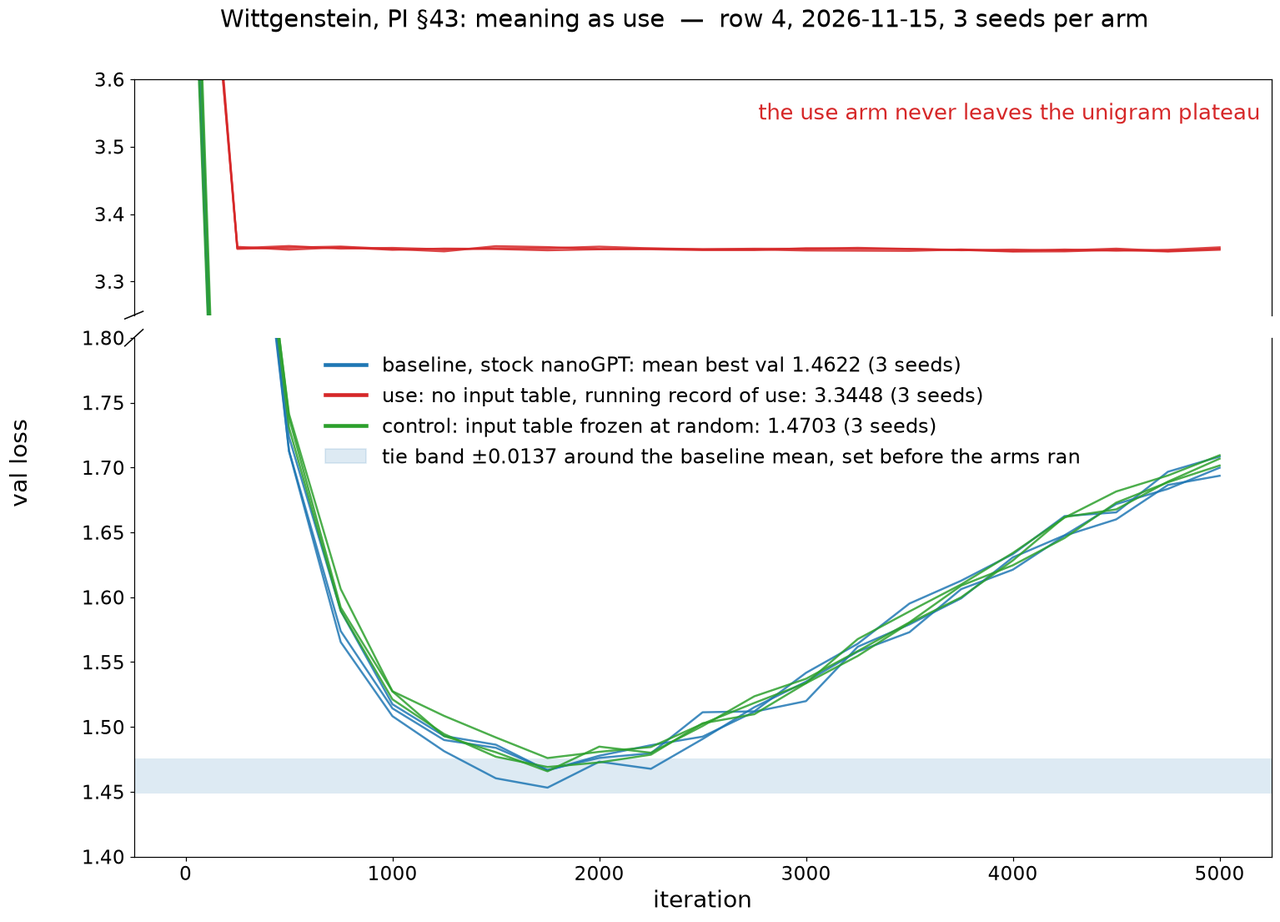
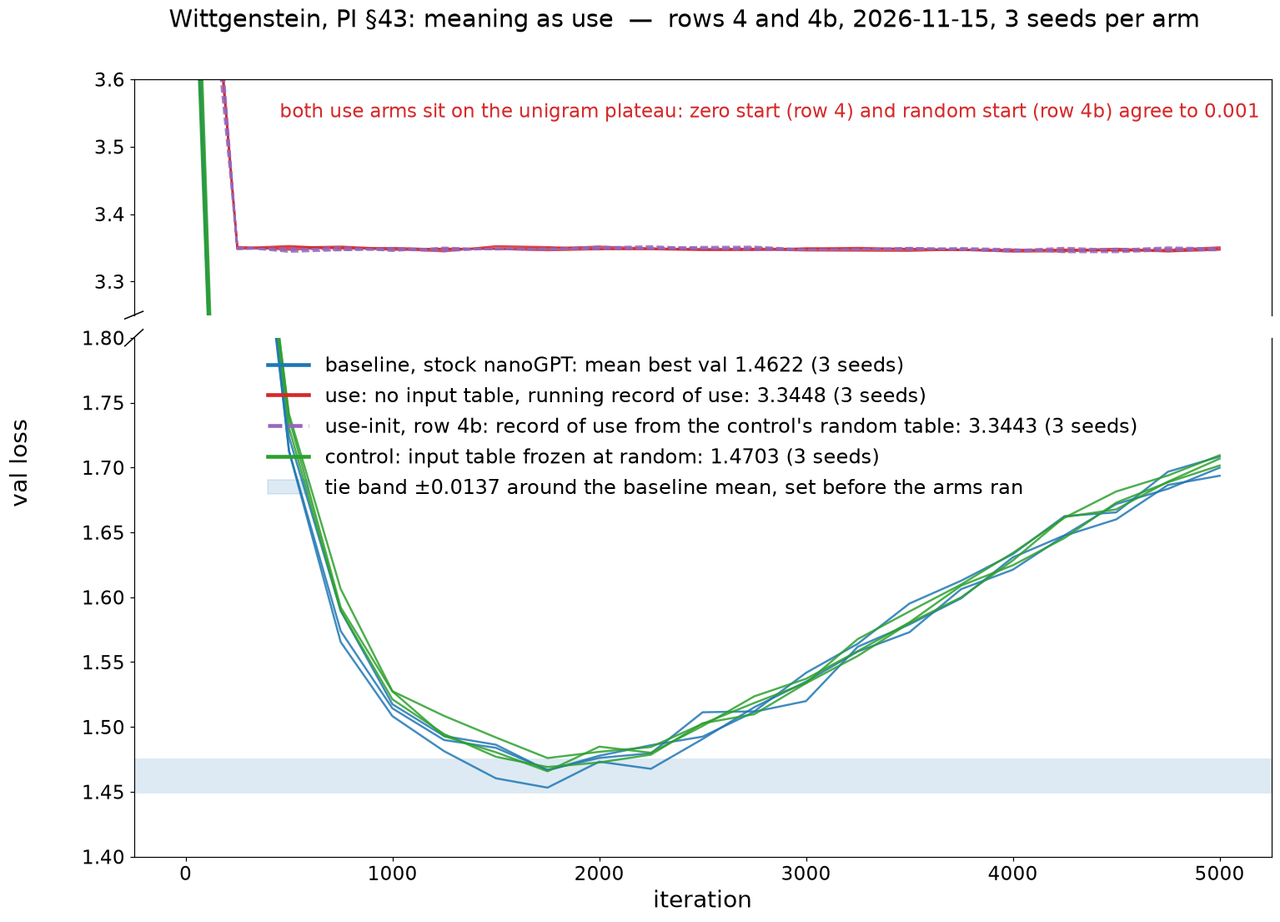
viewpoint_to_architecture: row 4b scored (use-init 3.3443, loss; the random start collapses too), row 4c written before its run, figure with the 4b arm

diff --git a/viewpoint_to_architecture/plot_wittgenstein.py b/viewpoint_to_architecture/plot_wittgenstein.py
@@ -3,34 +3,36 @@ import matplotlib; matplotlib.use("Agg")
 import matplotlib.pyplot as plt
 V="./"
 base=json.load(open(V+"baseline.json")); s7=json.load(open(V+"baseline_s7.json"))
-use=json.load(open(V+"wittgenstein_use.json")); fro=json.load(open(V+"wittgenstein_frozen.json"))
+use=json.load(open(V+"wittgenstein_use.json")); fro=json.load(open(V+"wittgenstein_frozen.json")); ui=json.load(open(V+"wittgenstein_use_init.json"))
 def curves(d):
     c=d["curves"]
     if isinstance(c,dict): return {k:[(r[0],r[2]) for r in v] for k,v in c.items()}
     return {"0":[(r[0],r[2]) for r in c]}
-B={**curves(base),**{"7":curves(s7)[list(curves(s7))[0]]}}; U=curves(use); F=curves(fro)
-bm,um,fm=1.4622,3.3448,1.4703; band=0.0137
+B={**curves(base),**{"7":curves(s7)[list(curves(s7))[0]]}}; U=curves(use); F=curves(fro); UI=curves(ui)
+bm,um,fm,uim=1.4622,3.3448,1.4703,3.3443; band=0.0137
 fig,(ax1,ax2)=plt.subplots(2,1,figsize=(16,11),dpi=110,sharex=True,gridspec_kw=dict(height_ratios=[1,2.2],hspace=0.06))
-cols={"base":"#1f77b4","use":"#d62728","fro":"#2ca02c"}
+cols={"base":"#1f77b4","use":"#d62728","fro":"#2ca02c","ui":"#9467bd"}
 for ax in (ax1,ax2):
     for k,v in B.items(): ax.plot(*zip(*v),color=cols["base"],lw=1.6,alpha=.85)
     for k,v in F.items(): ax.plot(*zip(*v),color=cols["fro"],lw=1.6,alpha=.85)
     for k,v in U.items(): ax.plot(*zip(*v),color=cols["use"],lw=1.6,alpha=.85)
+    for k,v in UI.items(): ax.plot(*zip(*v),color=cols["ui"],lw=1.6,alpha=.85,ls="--")
 ax1.set_ylim(3.25,3.60); ax2.set_ylim(1.40,1.80)
 ax2.axhspan(bm-band,bm+band,color=cols["base"],alpha=.15,lw=0)
 ax1.spines["bottom"].set_visible(False); ax2.spines["top"].set_visible(False); ax1.tick_params(bottom=False)
 d=.008
 for ax,y in ((ax1,0),(ax2,1)):
     ax.plot((-d,+d),(y-d*2,y+d*2),transform=ax.transAxes,color="k",clip_on=False,lw=1)
-ax1.text(0.99,0.9,"the use arm never leaves the unigram plateau",transform=ax1.transAxes,ha="right",va="top",fontsize=17,color=cols["use"])
+ax1.text(0.99,0.9,"both use arms sit on the unigram plateau: zero start (row 4) and random start (row 4b) agree to 0.001",transform=ax1.transAxes,ha="right",va="top",fontsize=15,color=cols["use"])
 from matplotlib.lines import Line2D
 from matplotlib.patches import Patch
 h=[Line2D([],[],color=cols["base"],lw=3,label=f"baseline, stock nanoGPT: mean best val {bm:.4f} (3 seeds)"),
    Line2D([],[],color=cols["use"],lw=3,label=f"use: no input table, running record of use: {um:.4f} (3 seeds)"),
+   Line2D([],[],color=cols["ui"],lw=3,ls="--",label=f"use-init, row 4b: record of use from the control's random table: {uim:.4f} (3 seeds)"),
    Line2D([],[],color=cols["fro"],lw=3,label=f"control: input table frozen at random: {fm:.4f} (3 seeds)"),
    Patch(color=cols["base"],alpha=.15,label=f"tie band ±{band} around the baseline mean, set before the arms ran")]
 ax2.legend(handles=h,loc="upper center",fontsize=16,frameon=False)
 ax2.set_xlabel("iteration",fontsize=18); fig.text(0.04,0.5,"val loss",va="center",rotation="vertical",fontsize=18)
 for ax in (ax1,ax2): ax.tick_params(labelsize=15)
-fig.suptitle("Wittgenstein, PI §43: meaning as use  —  row 4, 2026-11-15, 3 seeds per arm",fontsize=19,y=0.95)
+fig.suptitle("Wittgenstein, PI §43: meaning as use  —  rows 4 and 4b, 2026-11-15, 3 seeds per arm",fontsize=19,y=0.95)
 out=V+"wittgenstein_val_loss.png"; fig.savefig(out,bbox_inches="tight"); print(out)

diff --git a/viewpoint_to_architecture/wittgenstein_check_init_4b.py b/viewpoint_to_architecture/wittgenstein_check_init_4b.py
@@ -1,0 +1,13 @@
+import sys, torch
+sys.path.insert(0, r"D:\mycelium\vta\nanoGPT_wittgenstein")
+sys.argv = ['x']
+from model import GPT, GPTConfig
+# train.py: torch.manual_seed(seed + seed_offset), seed_offset = 0 (single process); model built from scratch afterwards
+for s in (1337, 42, 7):
+    torch.manual_seed(s)
+    m = GPT(GPTConfig(block_size=256, vocab_size=65, n_layer=6, n_head=6, n_embd=384, dropout=0.2, bias=False, embed_mode='use_init'))
+    ck = torch.load(rf"D:\mycelium\vta\nanoGPT_wittgenstein\out-witt-frozen-s{s}\ckpt.pt", map_location="cpu", weights_only=False)
+    sd = ck["model"]; k = [x for x in sd if x.endswith("transformer.wte.weight")][0]
+    d = (0.02 * m.U - sd[k]).abs().max().item()
+    tr = sum(p.numel() for p in m.parameters() if p.requires_grad)
+    print(f"seed {s} max_abs_diff {d:.3e} trainable {tr}")

diff --git a/viewpoint_to_architecture/LEDGER.md b/viewpoint_to_architecture/LEDGER.md
@@ -11,8 +11,9 @@ The judge for rows 1 to 3 is the one fixed on the page: best validation loss on 
 | 2 | 2026-11-15 | removed | No necessary connexion is ever perceived; every relation between impressions is learned from their constant conjunction. Hume, Treatise I.iii.6; Enquiry IV–VII. | No positional information is given: the learned position embedding is removed, and order is known only through what the causal mask imposes. | Removed the 98,304-parameter position embedding (0.9%, inside the 1% line, so no matching); nothing added. | p=0.55 within 0.01; p=0.35 worse by over 0.01; p=0.10 better by over 0.01. | Mean best 1.5283: +0.062, worse on both seeds. The 0.35 arm. It peaked a thousand iterations later and was the only run that did not overfit by iteration 5000 (final 1.5795 against 1.7041). | Translation. A causal decoder recovers position from the mask on its own (Haviv et al. 2022), so the run reproduced a known result: slower, and worse at this scale. | Taking away a relation the model would have learned anyway costs by the judge and changes the shape of the curve; the slower overfitting is the one thing in the row the judge does not see. |
 | 3 | 2026-11-15 | recomputed | Thought has an operation that fires on surprise, and surprise is measured against the thinker's own expectation. Peirce, Collected Papers 5.189 and 5.171. | One head per layer attends by the model's own surprisal at each position, computed from a no-grad forward of the current weights before each step, instead of by a learned score. | Removed the learned query and key of one head per layer; added 64 MLP hidden units per layer so parameters match; added one forward pass per step (1.57× wall time), so a 6667-iteration baseline was run as the compute match. | Against the 5000-iteration baseline: p=0.20 better by over 0.01; p=0.35 within 0.01; p=0.45 worse by over 0.01. Against row 1: p=0.60 lower. Kill line: mean best 1.4766 or above on both seeds is a loss; under 1.4566 on both and 0.01 under the compute-matched baseline is a win. | Mean best 1.4600: −0.0066 against the 5000-iteration baseline (1.4667) and −0.0039 against the 6667-iteration one (1.4639). Both under 0.01: a tie, twice. The 0.35 arm; lower than row 1. Overfits more slowly (best at 2000, final 1.6517). Seed spread 0.0117, the size of the gap. | Open. No loss to assign. The first two rows gave or took a relation; this one replaced a learned score with a quantity the model computes about itself, and did not lose. Two seeds cannot separate it from the baseline. | A quantity the model computes about itself is the first translation that did not reproduce a known result. Also: the first two runs of this row did not learn at all, from a cached-autocast fault in the extra pass, found by two controls that stalled the same way. Only the fixed runs are scored. |
 | 4 | 2026-11-15, written before the run at 21:5xZ | constituted | The meaning of a word is its use in the language. Wittgenstein, Philosophical Investigations §43. | No free input embedding table. A token's input vector is 0.02 times a buffer row holding an exponential moving average (decay 0.9) of the final-layer state at the position just before each occurrence of that token in earlier training steps: a record of the model's own use of the token, under the current weights, with no gradient. The output head keeps its own free table. Control arm: the input table present but frozen at its random init. | Removed the free input table as an input (the 24,960-parameter table stays as the output head, so parameters are unchanged at 10,745,088; the stock tree tied the two). Added a 65×384 buffer, not a parameter, and one fixed scalar (0.02, the stock init scale). About 1.0× compute, so no compute-matched arm. | Three seeds per arm (1337, 42, 7) and a third baseline seed on the stock tree. Band = max(range of the three baseline seeds' best val, 0.002), computed from the baseline's third seed before any arm runs; number entered here from the hand's file: **band = 0.0137** (baseline best val by seed 1337 / 42 / 7: 1.4664 / 1.4669 / 1.4532; range 0.0137, above the 0.002 floor; entered 2026-11-15 22:0xZ from the hand's band file, written 22:03:18Z, before any arm log was opened; seed 7 sits 0.013 under the other two, so this band is seven times the 0.002 the first two seeds alone would have given). Variant vs baseline, three-seed means: p=0.60 worse by more than the band with every variant seed above the baseline mean; p=0.30 within the band; p=0.10 better by more than the band with every seed below. Control vs baseline: p=0.55 within the band, p=0.40 worse, p=0.05 better. Variant lower than control p=0.50. Kill line: variant mean at or above baseline mean + band with every seed above is a loss; at or below baseline mean − band with every seed below is a win; between is a tie. Attribution written before: variant and control lose alike, the translation's (taking the learned table off the input costs whatever replaces it); variant loses and control ties, the claim's as translated; variant beats control and loses to baseline, both written. | Run 2026-11-15 22:0x–22:33Z, one RTX 3090. Use arm best val by seed 1337 / 42 / 7: 3.3451 (iter 4000) / 3.3443 (4000) / 3.3450 (4750); mean **3.3448**, +1.8826 over the baseline's 1.4622, every seed above: **loss**, the 0.60 arm. Frozen control: 1.4760 / 1.4691 / 1.4658, all at iter 1750; mean **1.4703**, +0.0081, inside the 0.0137 band: **tie**, the 0.55 arm. Use lower than control: no (the 0.50 call wrong). Final val means at 5000: use 3.349, control 1.706, baseline 1.701. Wall 306–314 s per use run against 297.6 for the baseline (1.04×, inside the predicted 300–350). Trainable parameters 10,745,088 in both arms. Of nine predictions, five true and four false; the false ones all had the use arm learning something. | By the attribution written before the run: variant loses and control ties, so **the claim's, as translated**. But the mechanism, measured after the run from the three use checkpoints, puts the loss on one choice inside the translation. The record U starts at zero, so every token enters the network as the same vector; the layers' states then depend only on position (and dropout noise); and the record written from those states is the same row for every token. Measured: pairwise cosine between the 65 rows of U, mean 0.9999, min 0.9976; each row's deviation from the mean row is 0.6% of its norm; no zero rows; all three seeds alike. The model never receives token identity and sits at the position-only level (val 3.35) from iteration 1000 to 5000. A zero-initialised record is a symmetric fixed point of its own update, which is a fact about the init and not about §43. Row 4b breaks the symmetry and keeps everything else. | A record of use written from a state that carries no token identity carries none: use can only constitute meaning where something already tells the uses apart. In the text's own terms, the moves of a language game have to be distinguishable before their use can give them meaning; §43 presupposes the distinction it does not supply. For the ledger: a translation whose variant starts at an exact symmetry of its own update is to be checked for that before it runs. This row was predicted to lose at p=0.60 for the wrong reason (a record too noisy to serve as an embedding), and lost from a fixed point the prediction did not name; a right call with a wrong mechanism is scored as a right call here, and the mechanism is written beside it so the next row cannot repeat it. |
-| 4b | 2026-11-15, written before the run at 22:4xZ | constituted | The meaning of a word is its use in the language. Wittgenstein, Philosophical Investigations §43 (the same sentence as row 4; this row changes one choice in the translation, not the claim). | As row 4, with the fixed point removed: the buffer U is initialised so that 0.02·U equals, element for element, the random normal(0, 0.02) table the frozen control carries under the same seed (U₀ = that table / 0.02; the check before training is max abs difference under 1e-6 against the frozen checkpoint's table), then updated by the same no-gradient EMA (decay 0.9) of the final-layer state preceding each occurrence. At step 0 the two arms are the same network; from step 1 they differ only in whether the input table is rewritten from use or never. Control: the frozen arm already run in row 4, not re-run (1.4703, tie). | Removed and added as row 4; nothing further. Parameters 10,745,088 trainable in both arms. About 1.0× compute. | Three seeds (1337, 42, 7); band 0.0137, from the same three baseline runs, unchanged. Variant vs baseline, three-seed means: p=0.45 worse by more than the band with every seed above; p=0.45 within the band; p=0.10 better by more than the band with every seed below. Variant lower than the frozen control's 1.4703: p=0.50. Variant's U rows at the end: pairwise cosine mean under 0.5, p=0.80 (the record diverges by token once tokens differ). Kill line as row 4. Attribution written before: 4b loses and the control tied, the claim's as translated, now with the init excuse gone; 4b ties the baseline, the use record costs nothing against a frozen random table and buys nothing against a learned one, so the translation is inert at this scale and the claim is unscored by it; 4b beats the baseline by the band with every seed below, a win, the first. Whichever lands, row 4's loss is then split: the part the init owned is the gap between row 4 and 4b, and the rest is the claim's. | | | |
+| 4b | 2026-11-15, written before the run at 22:4xZ | constituted | The meaning of a word is its use in the language. Wittgenstein, Philosophical Investigations §43 (the same sentence as row 4; this row changes one choice in the translation, not the claim). | As row 4, with the fixed point removed: the buffer U is initialised so that 0.02·U equals, element for element, the random normal(0, 0.02) table the frozen control carries under the same seed (U₀ = that table / 0.02; the check before training is max abs difference under 1e-6 against the frozen checkpoint's table), then updated by the same no-gradient EMA (decay 0.9) of the final-layer state preceding each occurrence. At step 0 the two arms are the same network; from step 1 they differ only in whether the input table is rewritten from use or never. Control: the frozen arm already run in row 4, not re-run (1.4703, tie). | Removed and added as row 4; nothing further. Parameters 10,745,088 trainable in both arms. About 1.0× compute. | Three seeds (1337, 42, 7); band 0.0137, from the same three baseline runs, unchanged. Variant vs baseline, three-seed means: p=0.45 worse by more than the band with every seed above; p=0.45 within the band; p=0.10 better by more than the band with every seed below. Variant lower than the frozen control's 1.4703: p=0.50. Variant's U rows at the end: pairwise cosine mean under 0.5, p=0.80 (the record diverges by token once tokens differ). Kill line as row 4. Attribution written before: 4b loses and the control tied, the claim's as translated, now with the init excuse gone; 4b ties the baseline, the use record costs nothing against a frozen random table and buys nothing against a learned one, so the translation is inert at this scale and the claim is unscored by it; 4b beats the baseline by the band with every seed below, a win, the first. Whichever lands, row 4's loss is then split: the part the init owned is the gap between row 4 and 4b, and the rest is the claim's. | **Loss.** Equality lines first: 0.02·U₀ against the frozen checkpoints' table, max abs diff 0.000 for all three seeds, trainable count 10,745,088, so this is row 4b as written. Use-init arm 3.3443 (seed 1337), 3.3452 (42), 3.3433 (7), mean 3.3443, +1.8821 on the baseline, every seed above 1.4759: loss by the kill line, the 0.45 arm. Row 4's use arm was 3.3448; the two agree to 0.001. Control is row 4's frozen arm, 1.4703, tie. Wall 302–304 s. Cosine prediction wrong, the 0.80 arm: the 65 rows of U, near-orthogonal at step 0, end with pairwise cosine mean 0.9986–0.9999, deviation from the mean row 0.6–1.5% of its norm, no zero rows. | **The translation's.** The symmetry named in row 4 was one entry to the collapse, not its cause: a random start with the symmetry gone collapses the same way. The cause is a timescale. The record forgets at decay 0.9 per step, so the start is 0.9ⁿ gone, under one percent after 44 steps; at those steps every token's post-ln_f state is near the same vector, because the network has not yet learned to make its states depend on the token, and the record averages those states into one row for every token. The model then receives no token identity and never produces states that carry any; the loop closes. Row 4c, below, changes only the timescale. | A rule I write into this ledger: a wiring that writes a learned quantity from the model's own states is checked for the timescale of the write against the timescale over which those states become informative; a write faster than the learning overwrites the start with the model's own initial uniformity. The symmetry check of row 4 stands and was not enough: breaking the symmetry (p=0.80 that the rows would stay apart) changed nothing measurable. A mechanism inferred from one run is a hypothesis about the next; here it was wrong and the row that tested it cost 18 minutes. |
+| 4c | 2026-11-15, written before the run at 23:2xZ | constituted | The meaning of a word is its use in the language. Wittgenstein, Philosophical Investigations §43 (the same sentence as rows 4 and 4b; this row changes the timescale of the record, not the claim). | As row 4b, start included, with the record's decay 0.9 replaced by 0.999 per step: U[k] ← 0.999·U[k] + 0.001·(mean post-ln_f state preceding token k in the batch), so the start has half-life ~690 steps and the record averages ~1,000 steps of use, over the span in which the stock model's val loss falls from 4.3 to 1.8. Everything else as row 4b: 0.02·U as the input, wte frozen and unused, three seeds, the same training. | Removed from row 4b: the fast forgetting. Added: nothing. | Three seeds (1337, 42, 7); band 0.0137, unchanged. Variant vs baseline, three-seed means, kill line as row 4: loss if every seed above 1.4759, win if every seed below 1.4485, else tie. Prediction: loss p=0.65, tie p=0.30, win p=0.05. Lower than row 4b's 3.3443 by more than 0.5: p=0.80 (the start survives long enough for the states to carry token identity). Pairwise cosine mean of U's rows at the end under 0.9: p=0.60. Control is row 4's frozen arm. Attribution as row 4: variant loses and control ties, the claim's as translated; and if the timescale change moves the loss by more than 0.5, the row-4b mechanism paragraph is confirmed as the cause of that much. | | | |
 
 ## Standing
 
-Four claims run, eleven runs, no win. Three losses: Kant's and Hume's the translation's, in each the wiring was a relation the stock model learns unaided; Wittgenstein's the claim's by the rule written before the run, with the mechanism measured afterwards pointing at one choice inside the translation (a zero-initialised record of use is a fixed point of its own update, so the model never received token identity). One tie, Peirce, open. The pattern so far, which is a hypothesis and not a result: a claim that adds or removes a relation loses to the model that learns the relation; a claim that changes what a score is computed from has not lost; a claim that replaces a learned table with a record of use has lost once, for a reason the next row can remove. Row 4b is written above with its prediction, the same band and kill line, and runs next; its result column is empty until the hand's file exists.
+Four claims run, fourteen runs, no win. Four losses: Kant's and Hume's the translation's, in each the wiring was a relation the stock model learns unaided; Wittgenstein's twice, row 4 the claim's by the rule written before the run, row 4b the translation's, the mechanism measured: a record of use that forgets in ten steps is overwritten by the untrained network's own uniformity before the network can make use distinct, and the start, zero or random, does not matter. One tie, Peirce, open. The pattern so far, which is a hypothesis and not a result: a claim that adds or removes a relation loses to the model that learns the relation; a claim that changes what a score is computed from has not lost; a claim that replaces a learned table with a record of use has lost twice, the second time for a reason the next row removes. Row 4c is written above with its prediction, the same band and kill line, and runs next; its result column is empty until the hand's file exists.

diff --git a/viewpoint_to_architecture/README.md b/viewpoint_to_architecture/README.md
@@ -84,6 +84,7 @@ Prediction written before the run: variant vs baseline p=0.60 worse by more than
 | baseline, stock nanoGPT | 1.4664 (1750) | 1.4669 (1750) | 1.4532 (1750) | 1.4622 | band ±0.0137 | 1.7006 |
 | use: no input table, record of use | 3.3451 (4000) | 3.3443 (4000) | 3.3450 (4750) | 3.3448 | +1.8826, loss | 3.349 |
 | control: input table frozen at random | 1.4760 (1750) | 1.4691 (1750) | 1.4658 (1750) | 1.4703 | +0.0081, tie | 1.7059 |
+| use-init (row 4b): record of use starting from the control's random table | 3.3443 (4000) | 3.3452 (1000) | 3.3433 (4250) | 3.3443 | +1.8821, loss | 3.348 |
 
 Result: the use arm lost, by the written line and by a margin no band is near; the frozen control tied the baseline. So by the attribution written before the run the loss is the claim's as translated.
 
@@ -93,12 +94,14 @@ What the checkpoints show, measured after the run: the record was initialised at
 
 Verdict: a record of use written from a state that carries no token identity carries none; use can constitute meaning only where something already tells the uses apart. Row 4b, written in the ledger before its run, keeps the wiring and breaks the symmetry: the record starts as the control's own random table and is then rewritten from use, so the two arms are the same network at step 0 and differ only in the update. Its prediction is 0.45 loss, 0.45 tie, 0.10 win. The control that frozen table tied the baseline, which already says this much: at this scale a learned input table is worth about 0.008 of val loss over a random one.
 
+Row 4b, run the same evening: the record started at the control's random table, element for element (checked before training: max abs difference 0.000 for all three seeds), so every token entered the network as a different vector at step 0. The loss did not move: 3.3443 against 3.3448, and at the end the 65 rows of the record are again one vector (pairwise cosine mean 0.999 in all three seeds). The prediction written before the run, that the rows would stay apart (p=0.80), was wrong. The cause is not the symmetry but the timescale: the record forgets at 0.9 per step, so the random start is gone within fifty steps, and at those steps an untrained network's final states are near the same vector for every token; the record averages them into one row for all tokens, and the loop of row 4 closes from a different start. Row 4c, written in the ledger before its run, changes only that timescale: decay 0.999, so the record averages about a thousand steps of use and the start survives into the span where the network learns.
+
 ---
 
 No claim has beaten the stock model at matched compute. Kant's given form cost 0.02 and the loss is the head's. Hume's absent form cost 0.06 at its best and learned slowest, but it was the only variant that did not overfit by iteration 5000. Peirce's measured score tied the baseline on both comparisons, 0.007 under at equal iterations and 0.004 under at equal compute, with a seed spread the size of the gap; it is the only variant so far that did not lose, and it overfit more slowly than the stock run. Wittgenstein's record of use lost by 1.88, the largest loss on the page, and the loss is traced to the record's zero init (a fixed point of its own update); its frozen-random control tied the baseline at +0.008. The mean-best figure is the mean of the two seeds' own best values; where the seeds peak at different iterations (Kant control, Hume) the minimum of the plotted mean curve sits up to 0.005 above it.
 
 ## Files and reproduction
 
-`baseline.json`, `kant_prevtoken.json`, `kant_control.json`, `hume_nopos.json`, `peirce_surprisal.json`, `baseline_6667.json`, `baseline_s7.json`, `wittgenstein_use.json`, `wittgenstein_frozen.json` hold the config, parameter count, GPU, torch version, and the training and validation loss every 250 iterations for each seed. `plot.py` draws `val_loss.png` and `val_loss.svg` from them. `LEDGER.md` is the running record, one row per try: the sentence tried and its place in the text, the wiring, what was removed or added, the prediction written before the run, the result, and whose the loss is, the claim's or the translation's; a row is written before its run. Hardware: one RTX 3090, torch 2.6.0+cu124, about 310 seconds per 5000-iteration run; the Peirce variant takes 497 seconds and the 6667-iteration baseline 395. The model edits are each under twenty lines of nanoGPT's model.py: for Kant, head 0 of each layer has its query and key removed and its attention matrix replaced by the shifted identity, with `mlp_hidden` set to 1600 for the widened variant and left stock for the control; for Hume, `wpe` is not created and the first block receives `drop(tok_emb)`; for Peirce, the Kant tree's head 0 takes its attention matrix from a surprisal vector computed by a no-grad eval-mode forward of the current weights before each step (the diff is in `peirce_model.diff`); for Wittgenstein, the free input table is replaced by a buffer rewritten from the final-layer state after each training step, or kept and frozen for the control (`wittgenstein_model.diff`, `wittgenstein_train.diff`; `wittgenstein_band.md` is the band as written before the arms ran; `plot_wittgenstein.py` draws `wittgenstein_val_loss.png`).
+`baseline.json`, `kant_prevtoken.json`, `kant_control.json`, `hume_nopos.json`, `peirce_surprisal.json`, `baseline_6667.json`, `baseline_s7.json`, `wittgenstein_use.json`, `wittgenstein_frozen.json`, `wittgenstein_use_init.json` hold the config, parameter count, GPU, torch version, and the training and validation loss every 250 iterations for each seed. `plot.py` draws `val_loss.png` and `val_loss.svg` from them. `LEDGER.md` is the running record, one row per try: the sentence tried and its place in the text, the wiring, what was removed or added, the prediction written before the run, the result, and whose the loss is, the claim's or the translation's; a row is written before its run. Hardware: one RTX 3090, torch 2.6.0+cu124, about 310 seconds per 5000-iteration run; the Peirce variant takes 497 seconds and the 6667-iteration baseline 395. The model edits are each under twenty lines of nanoGPT's model.py: for Kant, head 0 of each layer has its query and key removed and its attention matrix replaced by the shifted identity, with `mlp_hidden` set to 1600 for the widened variant and left stock for the control; for Hume, `wpe` is not created and the first block receives `drop(tok_emb)`; for Peirce, the Kant tree's head 0 takes its attention matrix from a surprisal vector computed by a no-grad eval-mode forward of the current weights before each step (the diff is in `peirce_model.diff`); for Wittgenstein, the free input table is replaced by a buffer rewritten from the final-layer state after each training step, or kept and frozen for the control (`wittgenstein_model.diff`, `wittgenstein_train.diff`; `wittgenstein_band.md` is the band as written before the arms ran; `plot_wittgenstein.py` draws `wittgenstein_val_loss.png`).
 
-Next run, written in the ledger as row 4b: Wittgenstein's record of use starting from the control's random table instead of zero, three seeds, the same band. A claim that beats the baseline at matched compute by more than the band with every seed below is the result this search is for; by 2027-01-14, if none has, the search ends and this page says so.
+Next run, written in the ledger as row 4c: Wittgenstein's record of use with the forgetting slowed from 0.9 to 0.999 per step, start included, three seeds, the same band. A claim that beats the baseline at matched compute by more than the band with every seed below is the result this search is for; by 2027-01-14, if none has, the search ends and this page says so.

diff --git a/README.md b/README.md
@@ -52,4 +52,4 @@ This is not a claim of a world record. The Einstein Arena board was read on 2026
 
 ## 4. Viewpoint to architecture
 
-A different kind of search: a thinker's claim about how a mind must be built, turned into one constraint on a small transformer and trained against the unmodified baseline at matched compute. The first four, Kant, Hume, Peirce and Wittgenstein, are in [`viewpoint_to_architecture/`](viewpoint_to_architecture/README.md). Kant, Hume and Wittgenstein lost; Peirce tied on both comparisons; the page says by how much and why, and for Wittgenstein why the loss traces to one choice in the translation, with the row that removes it written before its run.
+A different kind of search: a thinker's claim about how a mind must be built, turned into one constraint on a small transformer and trained against the unmodified baseline at matched compute. The first four, Kant, Hume, Peirce and Wittgenstein, are in [`viewpoint_to_architecture/`](viewpoint_to_architecture/README.md). Kant, Hume and Wittgenstein lost; Peirce tied on both comparisons; the page says by how much and why, and for Wittgenstein why the loss traces to the timescale of its record of use, found across two runs with the next row written before it runs.

diff --git a/viewpoint_to_architecture/wittgenstein_4b_spread.md b/viewpoint_to_architecture/wittgenstein_4b_spread.md
@@ -1,0 +1,9 @@
+Equality lines (check_init_4b.py, before training):
+seed 1337 max_abs_diff 0.000e+00 trainable 10745088
+seed 42 max_abs_diff 0.000e+00 trainable 10745088
+seed 7 max_abs_diff 0.000e+00 trainable 10745088
+
+U spread at the checkpoint (u_spread.py, path pointed at out-witt-useinit-s<seed>; checkpoint is the best-val one):
+seed 1337 iter 4000 best_val 3.3443: rows (65, 384), mean row norm 17.597, deviation-from-mean-row norm (mean over rows) 0.1094, ratio dev/norm 0.0062, pairwise cosine min 0.9989 mean 0.9999, zero rows 0
+seed 42 iter 1000 best_val 3.3452: rows (65, 384), mean row norm 18.316, deviation-from-mean-row norm (mean over rows) 0.2690, ratio dev/norm 0.0147, pairwise cosine min 0.9630 mean 0.9986, zero rows 0
+seed 7 iter 4250 best_val 3.3433: rows (65, 384), mean row norm 17.630, deviation-from-mean-row norm (mean over rows) 0.1249, ratio dev/norm 0.0071, pairwise cosine min 0.9971 mean 0.9999, zero rows 0
